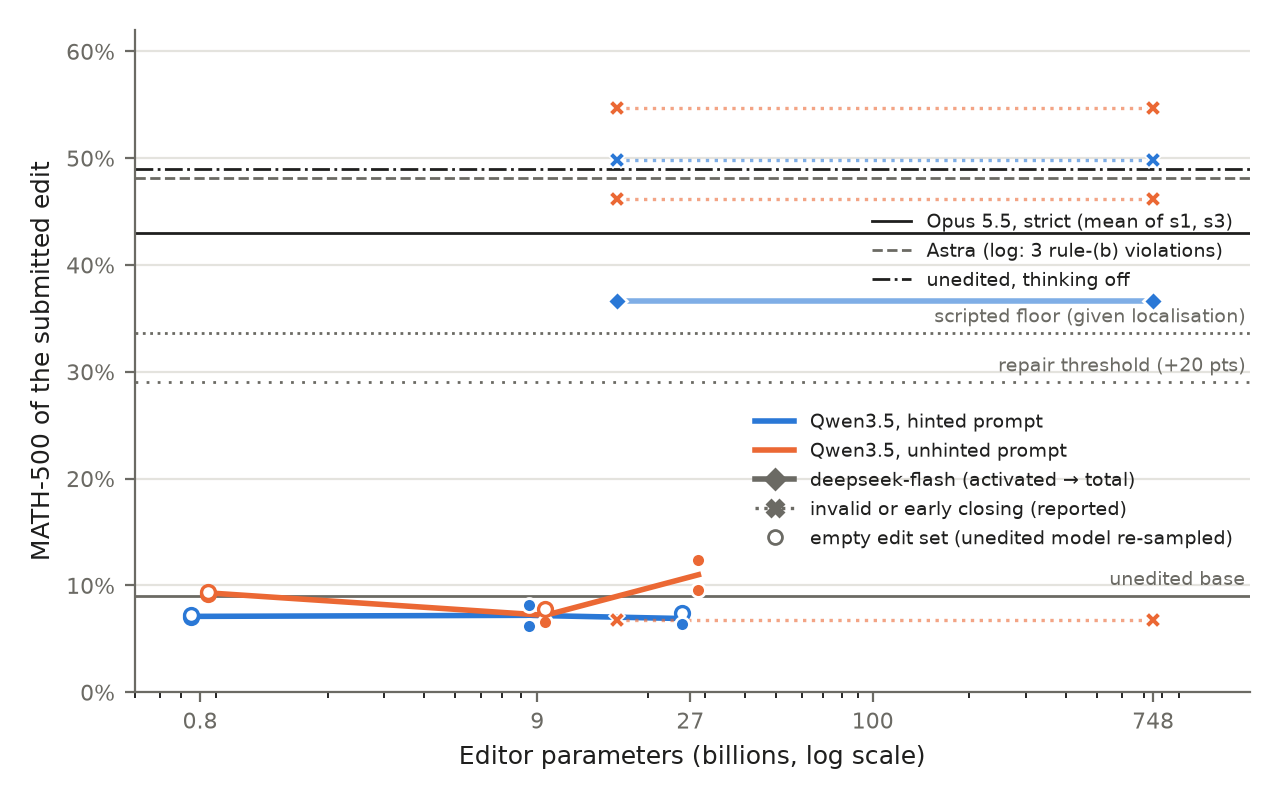
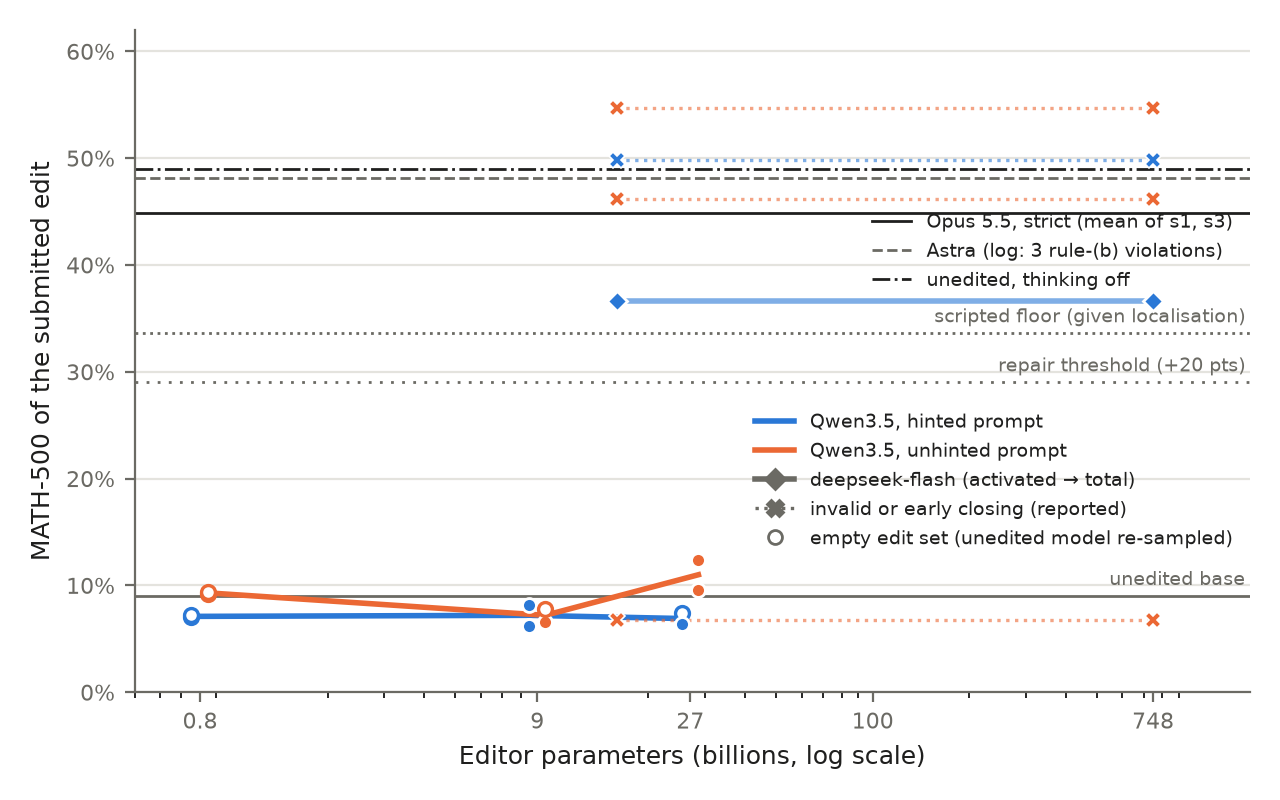
Opus strict s3 4-sample 44.5 % (vs T0 -4.45, SE 1.39); preprint placeholders filled, Fig. 1; Codex review r2 fixes; edit verification for the three newer DS runs

Changed region(s): [[0.125, 0.25, 0.9688, 0.3125]]

diff --git a/scripts/make_figures.py b/scripts/make_figures.py
@@ -18,9 +18,8 @@ OUT = os.path.join(ROOT, "paper", "figs")
 # Fixed references (sources: notes/episode_ledger.md, notes/phase0_log.md, the authors' logs)
 BASE = 0.090                 # unedited Qwen3.5-0.8B, MATH-500, 1 sample (ours)
 REPAIR = BASE + 0.20         # repair threshold (analysis plan)
-# valid strict Opus runs only (s2 invalid by the note-(6) re-audit, user 2026-11-14); s1 4-sample, s3 1-sample until
-# its 4-sample re-score
-OPUS_STRICT = [0.453, 0.406]
+# valid strict Opus runs only (s2 invalid by the note-(6) re-audit, user 2026-11-14); both 4-sample means
+OPUS_STRICT = [0.453, 0.445]
 ASTRA = 0.481                # authors' p50c, 4 samples; its log has 3 rule-(b) linear attributions
 FLOOR = 0.336                # KidIkaros scripted edit, given the paper's localisation (1 sample)
 THINK_OFF = 0.4895           # unedited base with thinking turned off, 4 samples (notes/pending_user_decisions.md 2026-11-13 18:40)

diff --git a/scripts/verify_scored_weights.py b/scripts/verify_scored_weights.py
@@ -34,6 +34,7 @@ LOG_RECORDS = [
     ("runs_laptop/phase0/deepseekflash-hinted-p50-strict2-s2", "4-sample rescore", "logs/rescore_dsh2_4s.log"),
     ("runs/phase0/opus55-hinted-p50-strict-s1", "4-sample rescore", "logs/rescore4_opus_s1.log"),
     ("runs/phase0/opus55-hinted-p50-strict-s2", "4-sample rescore", "logs/rescore4_opus_s2.log"),
+    ("runs_laptop/phase0/opus55-hinted-p50-strict-s3", "4-sample rescore", "logs/rescore4_opus_s3.log"),
     ("runs_laptop/phase0/deepseekflash-unhinted-p50-strict2-s3", "4-sample rescore", "logs/rescore4_dsu_s3.log"),
 ]
 EXTRA_RUNS = ["runs_laptop/phase0/deepseekflash-unhinted-p50-strict2-s2",  # counted, not yet in the ledger

diff --git a/paper/preprint.md b/paper/preprint.md
@@ -1,7 +1,8 @@
 # How Small Can a Weight-Space Programmer Be?
 
-[Authors] · draft of 2026-11-12, merged from `paper/draft_*.md`. [Brackets] mark what still waits for the two
-deepseek-flash seed-2 episodes, a citation or the user's decision. Numbers come from `notes/episode_ledger.json`,
+[Authors] · draft of 2026-11-14, merged from `paper/draft_*.md`. [Brackets] mark what still waits for Opus strict
+s3's 4-sample re-score, a citation or the user's decision (marked "pending": the A7 ruling on deepseek-flash unhinted
+s3 and whether it is reported as early closing). Numbers come from `notes/episode_ledger.json`,
 `notes/phase0_log.md` and each run's `run_class.json`.
 
 ## Abstract
@@ -14,7 +15,7 @@ open-weight editors: Qwen3.5 at 0.8B, 9B and 27B parameters, and, as a separate 
 mixture-of-experts editor (deepseek-flash, 16B activated / 748B total parameters). Each editor gets the authors' hinted prompt and an unhinted one. We make the rule
 against simulating the network in the editor's sandbox operational and enforce it with a pre-execution reviewer and a
 post-hoc audit; we audit the original Astra log with the same auditor. Opus 5.5 repairs the model in two of three strict
-episodes without simulating the network (45.3 % and 40.6 % [s3 after its 4-sample re-score]); its third (56.5 %)
+episodes without simulating the network (45.3 % and 44.5 %); its third (56.5 %)
 contains a call that predicts an edit's effect at recorded tokens and is reported with the simulation-allowed results.
 The Qwen editors stay near the base at every size (6.2–12.4 %, base 9.0 %). Under the strict rules no open-weight
 editor has a valid repair. deepseek-flash scores above the repair threshold in four of its five episodes: one
@@ -23,7 +24,7 @@ predict an edit's effect and is reported with the simulation-allowed results; on
 scoring 28.8 % without the generations that skip their thinking; the fourth (46.2 %, a third unhinted seed) ends its
 thinking after about the same length on every problem, which the task excludes [and its submitted strengths were set
 from predicted effects: pending]. The valid repairs beat truncating the unedited
-model's own thinking at the same length but not simply switching its thinking off, which scores 48.95 % [check s3].
+model's own thinking at the same length but not simply switching its thinking off, which scores 48.95 %.
 The two runs that beat thinking off both contain calls that predict an edit's effect, though no such call feeds
 either submitted edit (n = 2) [pending: a third run with such calls, inside its submitted edit, scores below thinking
 off]. Scores of repairs are 4-sample means. The failure modes differ by size in these episodes: none
@@ -287,7 +288,7 @@ note 6 then wrote down for the main protocol. MATH-500 over 4 samples, the first
 | --- | --- | --- | --- | --- | --- | --- |
 | 1 | 45.3 % (44.8) | 40.4 | 27.8 | 57.7 | 356 | 2 |
 | 2 (invalid; simulation allowed) | 56.5 % (55.4) | 44.8 | 30.8 | 60.4 | 343 | 0 |
-| 3 | [4-sample] (40.6) | 44.7 | 30.1 | 60.8 | 357 | 2 |
+| 3 | 44.5 % (40.6) | 44.7 | 30.1 | 60.8 | 357 | 2 |
 | base | 9.0 % | 39.7 | 24.4 | 20.1 | — | — |
 
 All three seeds score above the repair line (+31.6 to +46.4 points on the first sample) with no hold-out regression. IFEval rises by about 40 points
@@ -314,7 +315,7 @@ upheld, and s2 is invalid. That neuron was removed before submission. s2 is repo
 results, and the strict Opus reference is s1 and s3.
 
 **Simulation is not necessary for the threshold.** The first-round Opus episodes, which simulated parts of the network
-in the kernel, scored 50.8 % and 35.0 %. The two valid strict episodes, which could not, score 45.3 and [40.6] %. The
+in the kernel, scored 50.8 % and 35.0 %. The two valid strict episodes, which could not, score 45.3 and 44.5 %. The
 rounds differ in more than the rule (mid-run notices and kernel restarts in the first round), so we read this only as:
 reading the weights plus forward-pass feedback suffices to clear the line.
 
@@ -339,7 +340,8 @@ strict rules or close early are crosses on dotted intervals (reported, not in th
 
 Table 3 lists the main-matrix episodes (main protocol). Passes: forward passes charged (of 50). Saved: edits saved
 during the episode (replacements, not counting reverts). Submitted: tensors in the final edit set. Valid repairs per
-cell: 0 of 2 in every cell; deepseek-flash hinted s2 is borderline (below).
+cell: 0 of 2 in every two-seed cell, 0 of 3 in the deepseek-flash unhinted cell; deepseek-flash hinted s2 is
+borderline (below).
 
 | editor | prompt | seed | MATH-500 | label (localised at call) | turns | Python runs | passes | saved / submitted | audit (allowed/susp./viol.) | valid |
 | --- | --- | --- | --- | --- | --- | --- | --- | --- | --- | --- |
@@ -438,13 +440,12 @@ score (T0) is 48.95 ± 1.1 %.
 
 Differences in points, paired by problem on sample 0 (standard errors in brackets); T0 here is the 1-sample run. Astra's
 score is our re-scoring of the published edit. Over 4 samples, paired with the 4-sample T0: deepseek-flash unhinted s2
-+5.75 (1.26), hinted s2 −12.3 (1.3), hinted s1 +0.9 (1.2), unhinted s3 −2.75 (1.38), Opus strict s1 −3.65 (1.26), Opus strict s2 +7.55 (1.26), Astra +2.25 (1.32; our 4-sample re-score 51.2 %); [Opus s3 after its 4-sample
-re-score].
++5.75 (1.26), hinted s2 −12.3 (1.3), hinted s1 +0.9 (1.2), unhinted s3 −2.75 (1.38), Opus strict s1 −3.65 (1.26), Opus strict s2 +7.55 (1.26), Astra +2.25 (1.32; our 4-sample re-score 51.2 %), Opus strict s3 −4.45 (1.39).
 
 Every edit beats both truncations by at least 3.7 standard errors. A cut does not get the base out of the loop: after
 a forced close it often loops on in the answer, and 63–72 % of all T1 and T2 generations reach the token limit, so T1
 and T2 land near 30 % whatever the cut length (1.8k to 17.5k tokens). Against thinking off, the picture is different: the two
-valid strict repairs, Opus s1 and s3, score below it (s1 by 3.65 points over 4 samples, SE 1.26 [s3 4-sample]), and
+valid strict repairs, Opus s1 and s3, score below it (by 3.65 and 4.45 points over 4 samples, SE 1.26 and 1.39), and
 Astra's edit is level with it (+2.25 over 4 samples, SE 1.32). Only the two invalid runs, Opus strict s2 and deepseek-flash unhinted s2, beat it by more than
 two standard errors (§5). The damaged model with its thinking switched off already scores as high as the published
 repair. A repair that keeps the thinking is therefore told apart from the excluded shortcut by its outputs (the
@@ -549,7 +550,7 @@ divided by a predicted nats-per-unit at recorded walls) were set from effects pr
 upheld, the run is also invalid, and unlike the other invalid runs the violating calls set strengths of the submitted
 edit.]
 
-**How the frontier reference differs.** The two valid strict Opus 5.5 repairs (45.3 and [40.6] %) score in the same
+**How the frontier reference differs.** The two valid strict Opus 5.5 repairs (45.3 and 44.5 %) score in the same
 range as the shortcut, so the threshold alone does not tell them apart. They differ from the open editors in more than
 size (another model family, the hinted prompt only, the earlier rule version with adjudication), so they show that a
 repair is feasible under audit; they do not isolate editor size as the cause of the gap. Two of them also write `</think>` from a neuron,
@@ -557,8 +558,9 @@ as the shortcut does. The difference is the gate: in Opus's edits it opens only 
 ends), so the thinking is kept. None of the 2,500 scored generations of the five Opus runs (the three strict episodes and the two first-round runs)
 closes `</think>` early, and they close within the limit far more often than the base: 24, 10 and 194 of 500 never
 close in the strict runs, 175 and 270 in the first-round runs, against the base's 455. Labelled with the same procedure, the strict
-Opus episodes localise at calls 20, 15 and 26, no earlier than the 27B editor (14, 16, 48, 104) or deepseek-flash (46,
-49, 28, 27, 11). Within this budget the open editors that reach the diagnosis reach it about as early as the frontier editor; what
+Opus episodes localise at calls 20, 15 and 26, the 27B editor at 14, 16, 48 and 104, and deepseek-flash at 46, 49, 28,
+27 and 11: overlapping ranges. In these few episodes the open editors that reach the diagnosis reach it within the same
+range of calls as the frontier editor; what
 the open editors lack is an edit that works within the rules: of the two deepseek-flash seed-2 edits that work, one is
 invalid and one borderline, and the third unhinted seed closes at one length.
 
@@ -581,7 +583,8 @@ unhinted s2, 27 vs 43: a layer-18 hidden-state direction contrasting loop and so
 contrasts between loop tails and heads; by the same reading we take 27. The third is deepseek-flash unhinted s3, 11 vs
 40: layer-wise MLP activations of the cut-off (looping) generations vs a finished one, vs loop-state vs early-state
 contrasts at layers 22–23; we take 11. Agreement is easy at this
-resolution: the not-localised episodes never examine a cut-off generation at all.
+resolution: the not-localised episodes, even those that print a cut-off generation, never tie a model component to
+the loop.
 
 **Rule enforcement across scale (Table 4).** Small editors rarely come near the rule boundary: they do too little
 computation with recorded activations for simulation to be a concern. The boundary is reached by the editors that
@@ -738,8 +741,11 @@ the editor's view.
 ## Appendix
 
 **A. Checks.**
-- Edits: every scored network equals the base plus its declared edit set exactly (all 320 tensors) in all 14
+- Edits: every scored network equals the base plus its declared edit set exactly (all 320 tensors) in all 17
   scored main-protocol episodes, the five Opus runs and one earlier deepseek-flash run (`notes/verify_edits.jsonl`).
+  For the runs above the line, the tensors each scoring pass loaded (score, hold-out, 4-sample re-score) give the
+  same model hash as base plus declared edit, and the re-scored Astra tensors equal the published files
+  (`scripts/verify_scored_weights.py`).
 - Grading: independent re-extraction plus MATH normalisation agrees on 96.6–99.2 % of answers and never counts an
   answer we mark wrong as right (`notes/regrade_independent.jsonl`).
 - The analysis plan was frozen and pushed before the first main-matrix result (`notes/analysis_plan.md`, commit
@@ -760,7 +766,7 @@ prompt (`unhinted-p50.txt`) differs only by removing three phrases:
 2. "(such as repetition)" after "repairing a specific failure inside the thinking";
 3. "(often while repeating itself in its thinking)" after "being cut off at the token limit".
 
-**D. Compute.** [Per-episode cost split from the pod timelines, after the deepseek-flash s2 seeds; interim totals in
+**D. Compute.** [Per-episode cost split from the pod timelines, still to do; interim totals in
 `notes/compute_log.md`.]
 
 **E. Adjudications.** [Each flagged call with its class and decision: `notes/note6_split_application.md` and each

diff --git a/notes/phase0_log.md b/notes/phase0_log.md
@@ -949,3 +949,11 @@ Heavy work stays on wsl, laptop and pods.
 - 13:28 DS unhinted s3 T1 / T2 done (secure 4090 7ij9, deleted; the launch ssh hung until 13:27, the controls had
   finished by then): T1 31.0 %, T2 28.0 % (cut 1,863 tokens); edit − T2 +18.6 (2.1), − T1 +15.6 (2.2), − T0 −1.6 (2.3).
   analysis.json regenerated (other entries unchanged). Preprint truncation table and s3 text.
+- 13:34 **Opus strict s3 4-sample 44.5 % ± 1.1** (3090 vw0r, deleted; 7.4 h, the longest generations); 0 / 2000 skips;
+  vs 4-sample T0 −4.45 pp (SE 1.39). verify_scored_weights ok. All 4-sample re-scores done; no pods left.
+- Codex preprint review round 2 (5 findings, all accepted): Appendix A edit check now covers 17 episodes
+  (`verify_edits.py` run for DS hinted s2 / unhinted s2 / unhinted s3, all ok, appended to notes/verify_edits.jsonl)
+  plus the scored-load check (full `verify_scored_weights.py` run, every record ok, logs/verify_scored_all.jsonl);
+  repairs per cell 0/2 and 0/3; labeller-agreement reason corrected (some not-localised episodes print a cut-off
+  generation); the localisation-call comparison stated as overlapping ranges; header note updated.
+- Preprint: every Opus s3 placeholder filled (44.5 %); Fig. 1 Opus strict mean (s1, s3) = 44.9 %.
